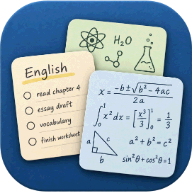
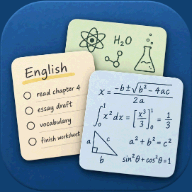
Stop the worker answering a picture with a page
The Home Screen icon went missing and the phone drew a letter H
instead, which is what iOS does when it cannot get an icon at all.
The file was never the problem: 180x180, opaque, served as image/png,
with the link in the head.

The service worker's last line was:

  return (await fresh) || caches.match('./index.html');

apple-touch-icon.png was not in the shell, so it was never pre-cached
and every request for it went to the network. When one did not land,
the worker handed back index.html -- a document -- as the answer to a
request for a picture. The phone asked for the icon, got markup, and
fell back to the first letter of the app's name.

A page can stand in for a page; that is what makes the app open with
no network. It cannot stand in for anything else. The fallback is now
behind req.mode === 'navigate' and everything else gets an honest
504. The icon is in the shell too: 34KB, and the first thing anybody
sees of this app.

Also flattened every icon. They had cut-away corners, which is right
for a favicon and wrong for a phone -- iOS composites a transparent
app icon onto black, so a rounded blue square arrives as a blue tile
in a black box, and iOS rounds the corners itself anyway. Each is
filled with the most common opaque colour around its own outer ring,
so the fill is the art's own background and not a guess.

Changed region(s): [[0.0, 0.0, 1.0, 1.0]]

diff --git a/sw.js b/sw.js
@@ -2,7 +2,7 @@
 
 // Bump this whenever the shell changes shape: it drops every older cache on
 // activate, so a page can never be served new markup with stale script.
-const CACHE = 'homework-v39';
+const CACHE = 'homework-v40';
 
 // Only what the app needs to run. The 512px icon is for the installer and the
 // splash screen, which nobody reaches offline, so it is fetched if it is ever
@@ -29,6 +29,10 @@ const SHELL = [
   './art/bag/tanach.webp',
   './icons/favicon-64.png',
   './icons/icon-192.png',
+  // The one the phone puts on the Home Screen. It is 34KB and it is the
+  // first thing anybody sees of this app, so it is not left to a network
+  // fetch that might not land.
+  './icons/apple-touch-icon.png',
 ];
 
 // Cache each file on its own: one bad response shouldn't cost us offline support.
@@ -78,7 +82,20 @@ self.addEventListener('fetch', (e) => {
     }).catch(() => null);
 
     if (cached) return cached;                  // instant, every time after the first
-    return (await fresh) || caches.match('./index.html');
+
+    const res = await fresh;
+    if (res) return res;
+
+    // Offline, and nothing cached. A page can stand in for a page — that is
+    // what makes the app open at all without a network. It cannot stand in
+    // for anything else: handing index.html back for a PNG gives whatever
+    // asked for it a document where it wanted a picture, and the phone,
+    // fetching the Home Screen icon, quietly drew a letter instead.
+    if (req.mode === 'navigate' || req.destination === 'document') {
+      return (await caches.match('./index.html'))
+        || new Response('', { status: 504, statusText: 'Offline' });
+    }
+    return new Response('', { status: 504, statusText: 'Offline' });
   })());
 });
 

diff --git a/index.html b/index.html
@@ -7,7 +7,7 @@
 <meta name="description" content="All your homework in one place." />
 <link rel="icon" href="icons/favicon-64.png" sizes="64x64" />
 <link rel="manifest" href="manifest.webmanifest" />
-<link rel="apple-touch-icon" href="icons/apple-touch-icon.png" />
+<link rel="apple-touch-icon" sizes="180x180" href="icons/apple-touch-icon.png" />
 <meta name="apple-mobile-web-app-capable" content="yes" />
 <meta name="apple-mobile-web-app-title" content="Homework" />
 <meta name="apple-mobile-web-app-status-bar-style" content="black-translucent" />

diff --git a/README.md b/README.md
@@ -651,6 +651,37 @@ strings of comic writing, and turning that into Hebrew is a piece of work in its
 rather than a lookup table. The machinery is ready for it; the words are not written.
 
 
+## The icon on the Home Screen
+
+It went missing and the phone drew a letter **H** in its place, which is what iOS does when it
+cannot get an icon at all. The file was fine — 180×180, opaque, served as `image/png` with a
+`<link rel="apple-touch-icon">` in the head. The service worker was the problem, in its very
+last line:
+
+```js
+return (await fresh) || caches.match('./index.html');
+```
+
+`apple-touch-icon.png` was not in the shell, so it was never pre-cached and every request for
+it went to the network. When one of those did not land, **the worker handed back**
+**`index.html`** — a document — as the answer to a request for a picture. The phone asked for
+the icon, got markup, and fell back to the first letter of the app's name.
+
+A page can stand in for a page; that is what makes the app open with no network. It cannot
+stand in for anything else, so the fallback is now behind `req.mode === 'navigate'` and
+everything else gets an honest 504. The icon is in the shell too, because it is 34KB and it is
+the first thing anybody sees of this app.
+
+**Every icon is opaque.** They had cut-away corners, which is right for a favicon and wrong for
+a phone: iOS composites a transparent app icon onto black, so a rounded blue square arrives as
+a blue tile inside a black box — and iOS rounds the corners itself anyway, so cutting them in
+the file only gives it something to fill in. Each one is flattened onto the most common opaque
+colour around its own outer ring, so the fill is the art's own background rather than a colour
+picked by hand. `scratchpad/flatten.js` does it; `scratchpad/test-icon.js` checks that not one
+of them is see-through anywhere, and that the worker cannot answer a picture with a page —
+including for real, with the network cut.
+
+
 ## Design rules
 
 Aged parchment, deep ink-blue for text and every primary action, and a red-brown where
